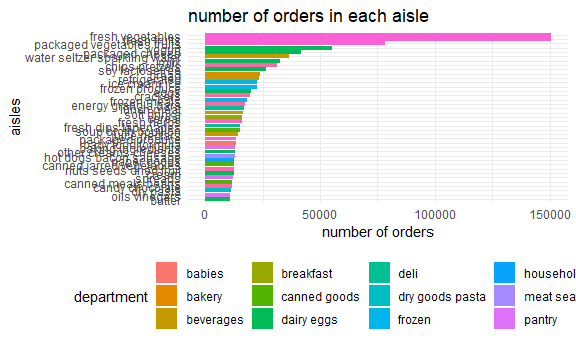
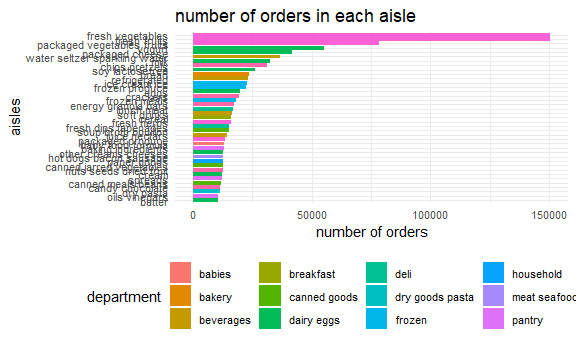
final_version_2.0

diff --git a/p8105_hw3_yt2785.md b/p8105_hw3_yt2785.md
@@ -102,15 +102,20 @@ instacart_df %>%
   ) + 
   theme_minimal() +
   theme(axis.text.y = element_text(hjust = 1), 
-        axis.text = element_text(),
+        axis.text = element_text(size = 8),
         legend.position = "bottom",
-        legend.text = element_text()) + 
+        legend.text = element_text(size = 8)) + 
   coord_flip()
 ```
 
     ## `summarise()` has grouped output by 'aisle'. You can override using the `.groups` argument.
 
 <img src="p8105_hw3_yt2785_files/figure-gfm/unnamed-chunk-4-1.png" width="90%" />
+
+**The x-axis represents the name of the aisles, and the y-axis
+represents the number of the aisles. From this plot we can found that
+the number of `Fresh Vegetables` is the largest and the number of
+`butter` is the smallest.**
 
 \#\#Make a table showing the three most popular items in each of the
 aisles `baking ingredients`, `dog food care`, and
@@ -120,7 +125,7 @@ aisles `baking ingredients`, `dog food care`, and
 most_popular_item = 
   instacart_df %>% 
   filter(aisle %in% c("baking ingredients","dog food care","packaged vegetables fruits")) %>% 
-  group_by(aisle,product_name) %>% 
+  group_by(aisle, product_name) %>% 
   summarize(n_times = n()) %>% 
   mutate(product_rank = min_rank(desc(n_times))) %>% 
   filter(product_rank == 1) %>% 
@@ -364,11 +369,13 @@ accel_df =
 ``` r
 name_accel = colnames(accel_df)
 n_col_accel = ncol(accel_df)
+n_row_accel = nrow(accel_df)
 ```
 
-**There are 6 observations and week, day\_id, day, weekday\_vs\_weekend,
-time\_minute, activity\_count variables exist. All of the minute and
-their activity count is linked together clearly.**
+**There are 6 variebles exist, which are week, day\_id, day,
+weekday\_vs\_weekend, time\_minute, activity\_count. And there are 50400
+observations. All of the minute and their activity count is linked
+together clearly.**
 
 \#\#aggregate accross minutes to create a total activity variable for
 each day, and create a table showing these totals.
